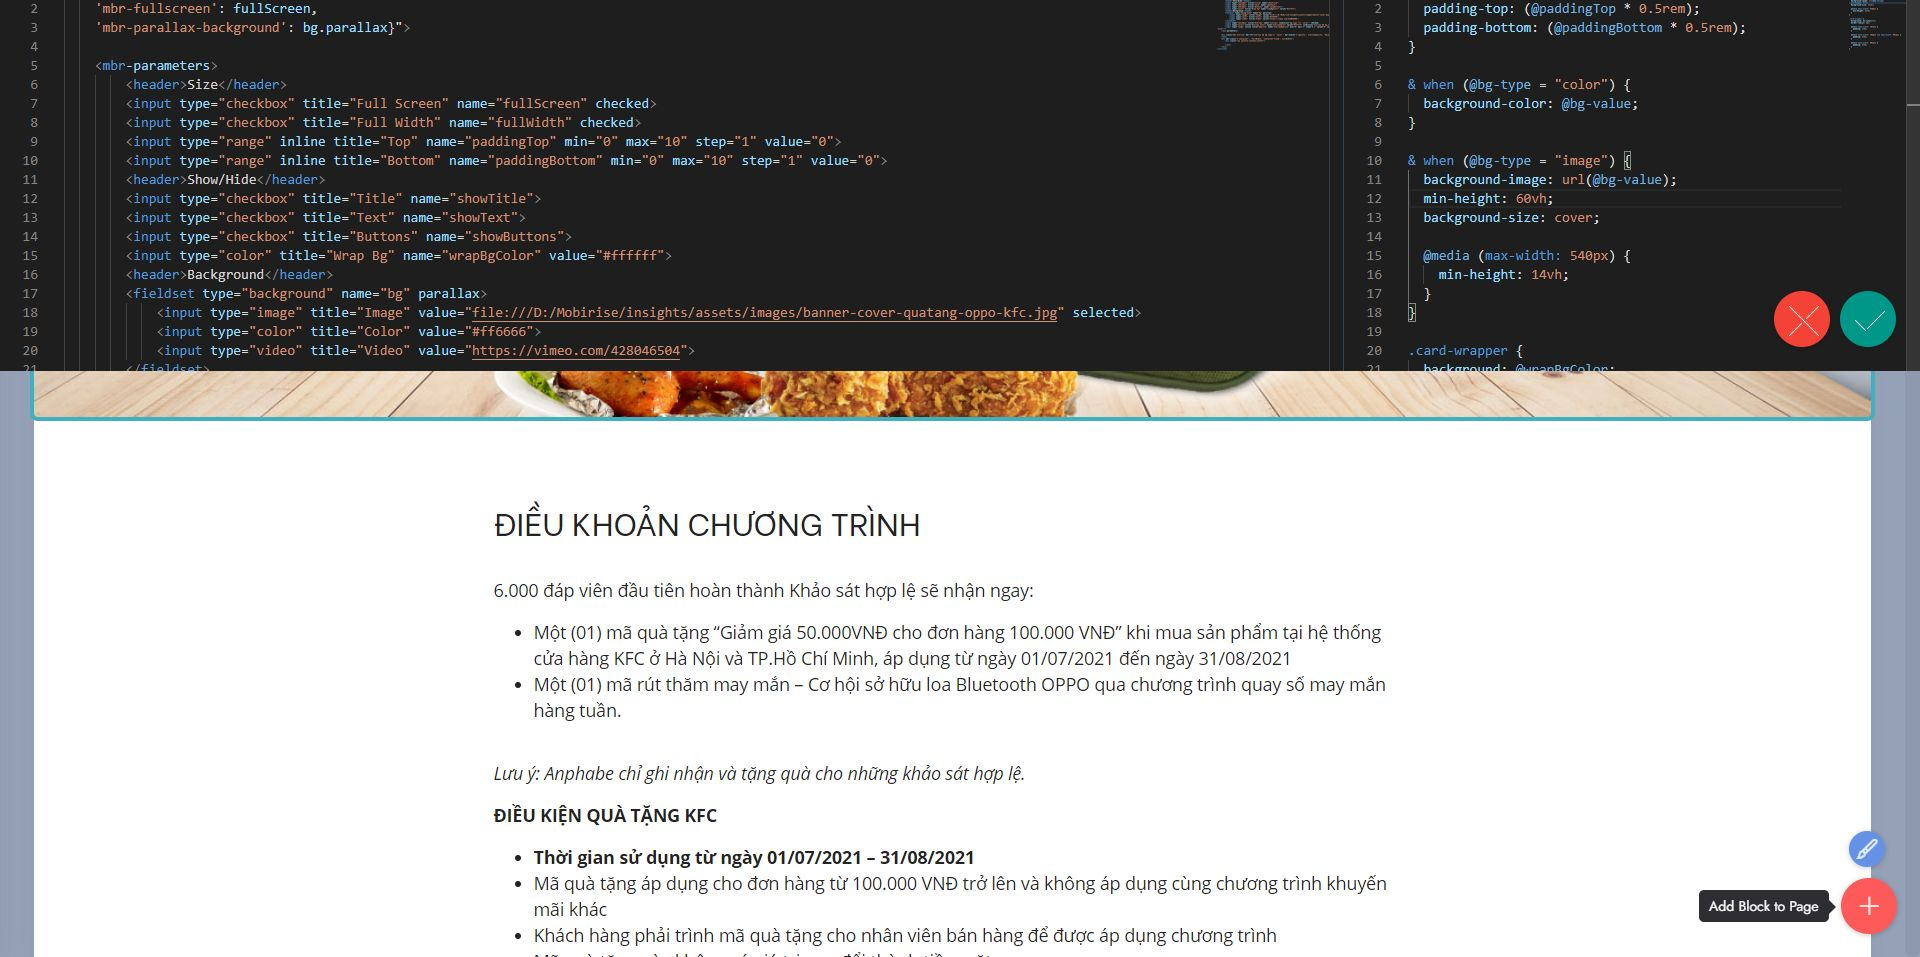
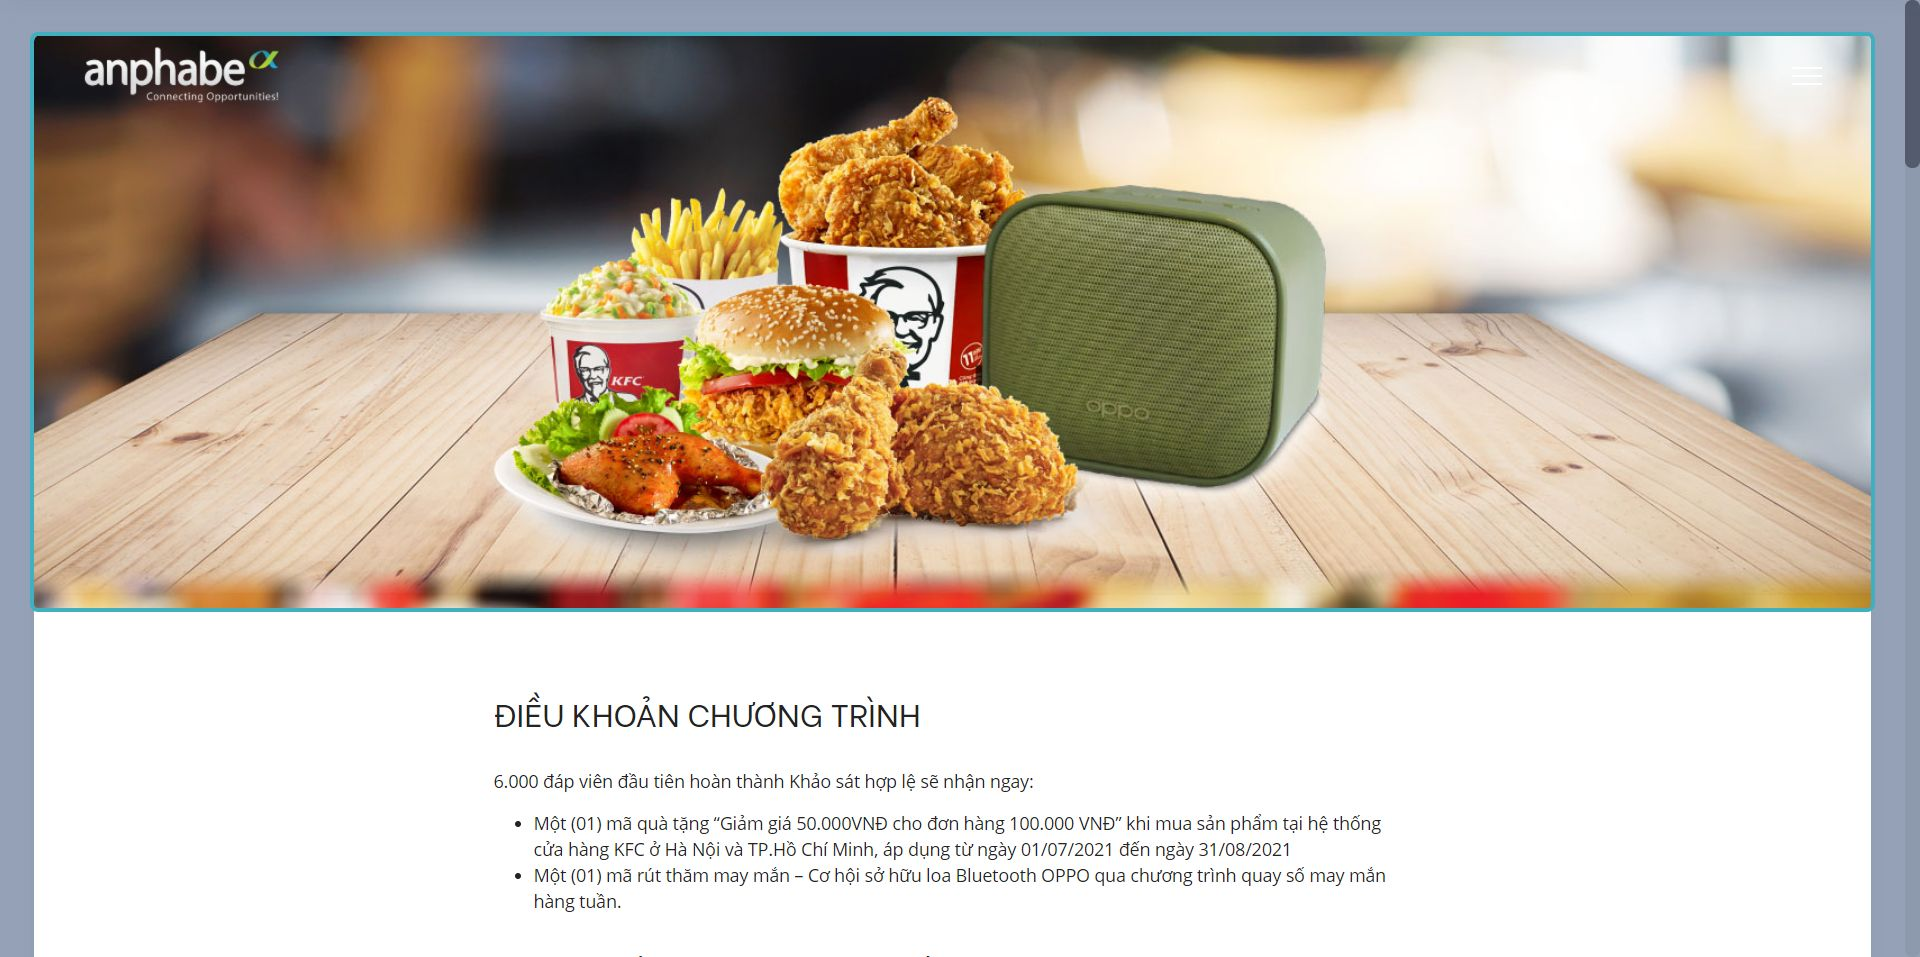
update

diff --git a/assets/mobirise/css/mbr-additional.css b/assets/mobirise/css/mbr-additional.css
@@ -684,7 +684,7 @@ a {
 }
 .cid-ss0vz7Athm {
   background-image: url("../../../assets/images/banner-cover-quatang-oppo-kfc.jpg");
-  min-height: 60vh;
+  min-height: 40vh;
   background-size: cover;
 }
 @media (max-width: 540px) {
